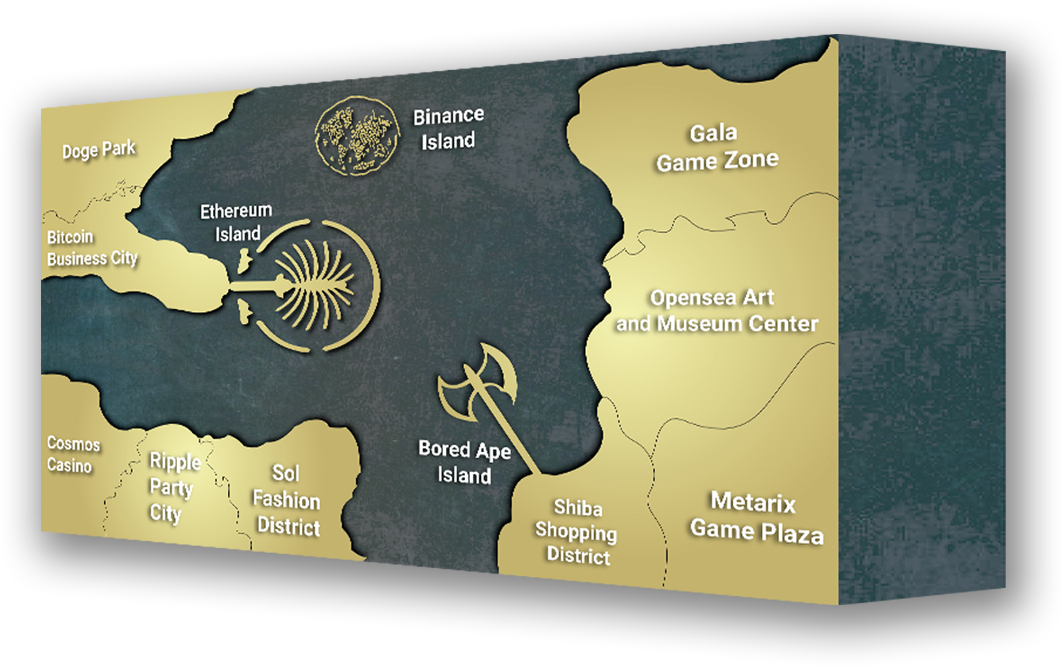
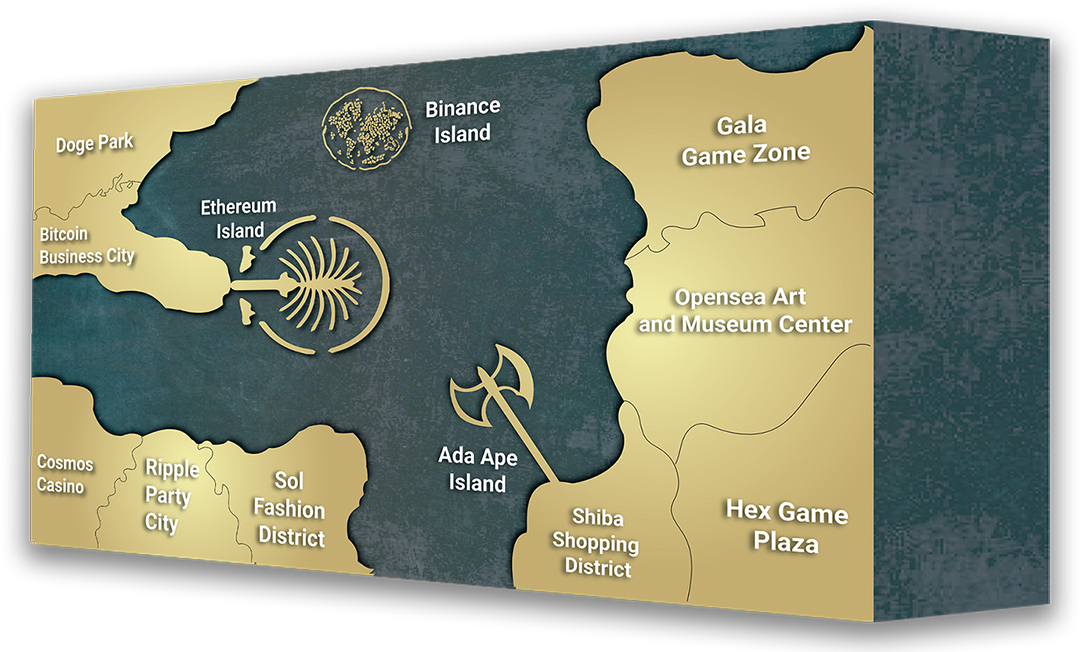
05/04/22

Changed region(s): [[0.0, 0.0307, 0.9934, 1.0]]

diff --git a/css/style.css b/css/style.css
@@ -3818,6 +3818,58 @@ img.footers_img {
 
 
 
+/* landing timer page  */
+
+.landing_timmer {
+    padding: 150px 0px 200px 0px;
+    text-align: center;
+    background: url(../img/metarix_landing/landing_bgg.png);
+    background-size: 100% 100%;
+    background-repeat: no-repeat;
+}
+
+.timer_head h1 {
+    font-size: 45px;
+    font-weight: 700;
+    background: -webkit-linear-gradient(right, #0756d2 0%, #c72c8a 100%);
+    -webkit-background-clip: text;
+    -webkit-text-fill-color: transparent;
+    width: 65%;
+    margin: 0 auto;
+}
+
+.timer_head p {
+    width: 66%;
+    margin: 0 auto;
+    padding: 15px 0px 50px 0;
+}
+
+#clockdiv{
+	color: #fff;
+    display: flex;
+    font-weight: 600;
+    text-align: center;
+    font-size: 30px;
+    justify-content: center;
+    gap: 40px;
+}
+
+#clockdiv .timmer{
+	padding: 12px 18px;
+    border-radius: 15px;
+    background: linear-gradient(to right, #bf2d8a 0%,#124dbd 100%);
+    width: 115px;
+    height: 115px;
+}
+
+.smalltext{
+	padding-top: 5px;
+	font-size: 16px;
+}
+
+/* landing timer Ending */
+
+
 
 
 
@@ -4690,7 +4742,7 @@ display: none;
 }
 .header-scrolled .container {
     margin: 0px;
-    padding: 0px 12px;
+    padding: 0px 15px;
 }
 .carousel-fade .carousel-item {
     padding-top: 45px;

diff --git a/js/main.js b/js/main.js
@@ -376,26 +376,16 @@ function ScrollZoom(slideContainer,max_scale,factor){
 }
 
 
-
-
-
-
-
-
-
-
-
-
-
-
-
-  
     $("#data").scroll(function() {
   var scroll = $("#data").scrollTop();
   $("#imageView").css({
      width: (100 + scroll/5) + "%"
   })
 })
+
+
+
+
 
 
 

diff --git a/landing_timmer.php b/landing_timmer.php
@@ -1,0 +1,112 @@
+<!-- Header started  -->
+<?php include("includes/header.php"); ?>
+
+<div class="metarixs_landing">
+
+
+<section class="landing_timmer">
+    <div class="container">
+        <div class="row">
+           <div class="timer_head">
+               <h1>We Are Launching New Presale</h1>
+               <p>A pre-sale is a targeted sale before your product actually goes live. You sell the idea of your course to a small portion of your audience before you’ve created all of your course content. Typically, you pre-sell by setting up your sales page, discounting your course, and sending an email out to your list (or communicating the sale to your audience in another way).</p>
+           </div>
+            <div id="clockdiv">
+                <div class="timmer">
+                    <span class="days"></span>
+                    <div class="smalltext">Days</div>
+                </div>
+                <div class="timmer">
+                    <span class="hours"></span>
+                    <div class="smalltext">Hours</div>
+                </div>
+                <div class="timmer">
+                    <span class="minutes"></span>
+                    <div class="smalltext">Minutes</div>
+                </div>
+                <div class="timmer">
+                    <span class="seconds"></span>
+                    <div class="smalltext">Seconds</div>
+                </div>
+            </div>
+        </div>
+    </div>
+</section>
+
+<section>
+    <div class="container">
+        <div class="row">
+            <h2 class="landing_abt_head">About the Project</h2>
+            <div class="col-md-6">
+                <div class="landingpage_paragharph">
+                    <p>Metarix is a fully Decentralized Blockchain platform for Gaming, NFT's and Metaverse. We at Metarix are dreaming to build the community owned decentralized blockchain platform. Our platform consists of Blockchain, DEX, NFT Marketplace, Metaverse , Virtual Land Parcels , SDK and much more.
+                    We are dreaming of building a complete ecosystem for gaming projects to give users the one stop solution for all the gaming project needs. Metarix is a decentralized web 3.0 platform and is powered using the Metarix Chain a layer 2 solution on top of Ethereum using Ethereum's Scaling and security measures to ensure our users are protected. </p>
+                </div>
+            </div>
+            <div class="col-md-6">
+                 <div class="landingpage_paragharph">
+                    <p>User's who participate in this private sale and stake with us are eligible for 50 percent discount on our land parcels subject to all the terms and conditions. Metarix Virtual Land project consists of 109,000 land parcels each of different size. You can buy virtual real estate property on Metarix chain and build anything you dream of in Metarix Metaverse using our own SDK. We provide additonal support from Building NFT's and Games to customizing them and even pushing your project to greater extent with all the resources of Metarix at your disposal. </p>
+                </div>
+            </div>
+        </div>
+    </div>
+</section>
+
+
+
+
+
+</div><!-- metarixs_landing ended  -->
+
+
+
+<!-- footer  -->
+<?php include("includes/footer.php"); ?>
+
+    
+
+
+<!-- timer jss  -->
+<script>
+    function getTimeRemaining(endtime) {
+  var t = Date.parse(endtime) - Date.parse(new Date());
+  var seconds = Math.floor((t / 1000) % 60);
+  var minutes = Math.floor((t / 1000 / 60) % 60);
+  var hours = Math.floor((t / (1000 * 60 * 60)) % 24);
+  var days = Math.floor(t / (1000 * 60 * 60 * 24));
+  return {
+    'total': t,
+    'days': days,
+    'hours': hours,
+    'minutes': minutes,
+    'seconds': seconds
+  };
+}
+
+function initializeClock(id, endtime) {
+  var clock = document.getElementById(id);
+  var daysSpan = clock.querySelector('.days');
+  var hoursSpan = clock.querySelector('.hours');
+  var minutesSpan = clock.querySelector('.minutes');
+  var secondsSpan = clock.querySelector('.seconds');
+
+  function updateClock() {
+    var t = getTimeRemaining(endtime);
+
+    daysSpan.innerHTML = t.days;
+    hoursSpan.innerHTML = ('0' + t.hours).slice(-2);
+    minutesSpan.innerHTML = ('0' + t.minutes).slice(-2);
+    secondsSpan.innerHTML = ('0' + t.seconds).slice(-2);
+
+    if (t.total <= 0) {
+      clearInterval(timeinterval);
+    }
+  }
+
+  updateClock();
+  var timeinterval = setInterval(updateClock, 1000);
+}
+
+var deadline = new Date(Date.parse(new Date()) + 15 * 24 * 60 * 60 * 1000);
+initializeClock('clockdiv', deadline);
+</script>

diff --git a/index.php b/index.php
@@ -260,7 +260,7 @@
                 <div class="col-md-6">
                   <div class="mask rgba-indigo-light">
                     <h2 class="right_text">Ethereum, Binance, and Ada Ape Islands </h2>
-                    <p class="right_para">Looking for premium property in the Metarix world? Look no further. Metarix has Ethereum, Binance, and Bored Ape Islands within the platform.</p>
+                    <p class="right_para">Looking for premium property in the Metarix world? Look no further. Metarix has Ethereum, Binance, and Ada Ape Islands within the platform.</p>
                   </div>
                 </div>
                 <div class="col-md-6">
@@ -325,7 +325,7 @@
                                 <div class="mask rgba-indigo-light">
                                     <div class="main_right_text">
                                         <h2 class="right_text">Ethereum, Binance, and Ada Ape Islands </h2>
-                                        <p class="right_para">Looking for premium property in the Metarix world? Look no further. Metarix has Ethereum, Binance, and Bored Ape Islands within the platform.</p>
+                                        <p class="right_para">Looking for premium property in the Metarix world? Look no further. Metarix has Ethereum, Binance, and Ada Ape Islands within the platform.</p>
                                     </div>
                                 </div>
                             </div>
@@ -1249,9 +1249,9 @@
                          <!-- <h1 class="heading_text"><img class="heading_logo" src="img/heading_left_logo.png" alt=""> Strategic Partners <img class="heading_logo" src="img/heading_right_logo.png" alt=""></h1> -->
                     </div>
                      <div class="partners-data">
-                         <img class="partner_img" src="img/partners/Genesis_update_logo.png" alt="Vector.svg">
-                         <img class="partner_img" src="img/partners/logo-geller.png" alt="UnrealEngine_logo.svg">
-                         <img class="partner_img" src="img/partners/konma.png" alt="UnrealEngine_logo.svg">
+                         <!-- <img class="partner_img" src="img/partners/Genesis_update_logo.png" alt="Vector.svg"> -->
+                         <a href="#" target="_blank"><img class="partner_img" src="img/partners/logo-geller.png" alt="UnrealEngine_logo.svg"></a>
+                         <a href="https://www.konma.community/" target="_blank" ><img class="partner_img" src="img/partners/konma.png" alt="UnrealEngine_logo.svg"></a>
                     </div>
                 </div>
                 <div class="col-xl-6">
@@ -1260,7 +1260,7 @@
                          <!-- <h1 class="heading_text"><img class="heading_logo" src="img/heading_left_logo.png" alt=""> Media Partners <img class="heading_logo" src="img/heading_right_logo.png" alt=""></h1> -->
                     </div>
                      <div class="partners-data">
-                         <img class="partner_img" src="img/partners/corum.png" alt="Vector.svg">
+                         <a href="https://corum8.com/" target="_blank" ><img class="partner_img" src="img/partners/corum.png" alt="Vector.svg"></a>
                     </div>
                 </div>
                    
@@ -1280,7 +1280,7 @@
                 <!-- <div class="col-md-12"> -->
                     <div class="partners-data">
                          <img src="https://everdome-static.s3.eu-north-1.amazonaws.com/Vector_23ae3b3aba.svg" alt="Vector.svg">
-                         <img class="partner_img" src="img/partners/Unity_Technologies_logo.png" alt="UnrealEngine_logo.svg">
+                         <a href="https://unity.com/" target="_blank"><img class="partner_img" src="img/partners/Unity_Technologies_logo.png" alt="UnrealEngine_logo.svg"></a>  
                     </div>
                 <!-- </div> -->
             </div>

diff --git a/includes/header.php b/includes/header.php
@@ -80,8 +80,8 @@
           <li><a class="nav-link scrollto" href="metarix_landing.php">More</a></li> -->
           <li><a class="nav-link scrollto"  href="contact.php">Contact Us</a></li>
           <li><a class="getstarted scrollto" target="_blank" href="img/whitepaper/Whitepaper.pdf">Whitepaper</a></li>
-          <li><a class="getstarted scrollto"  href="staking.php">Staking</a></li>
-          <li><a class="getstarted scrollto pre_sale_btn"  target="_blank" href="metarix_landing.php">PreSale</a></li>
+          <li><a class="getstarted scrollto"  href="coming_soon.php">Staking</a></li>
+          <li><a class="getstarted scrollto pre_sale_btn"  target="_blank" href="landing_timmer.php">Presale !!</a></li>
         </ul>
         <i class="fa fa-list mobile-nav-toggle"></i>
       </nav><!-- .navbar -->
